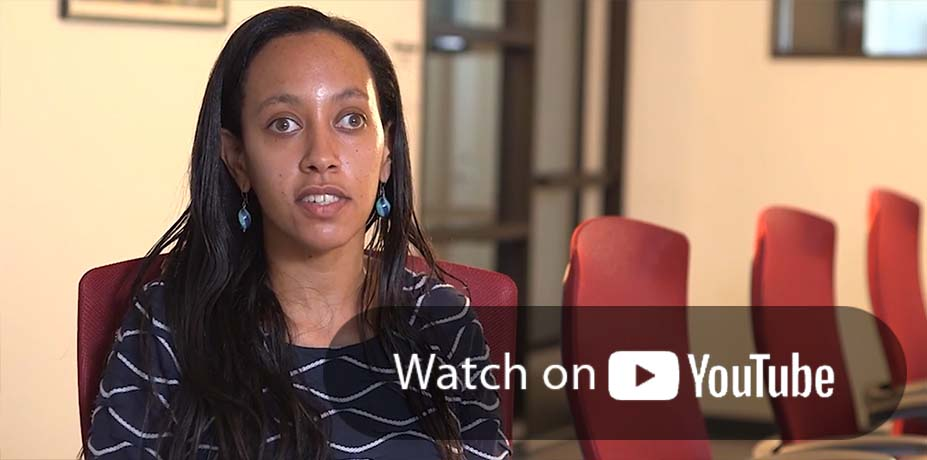
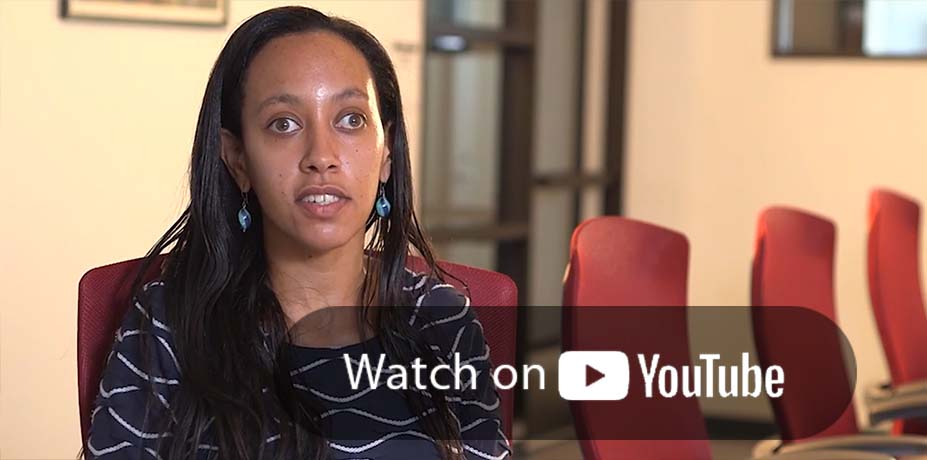
Updated thumbnails

Changed region(s): [[0.302, 0.6391, 0.9968, 0.9739]]

diff --git a/inclusive-design-in-the-ITL.html b/inclusive-design-in-the-ITL.html
@@ -325,11 +325,11 @@ h2 button.disclosure[aria-expanded="true"] .disclosure-icon {
       <figcaption>Introduction to Microsoft Inclusive Design</figcaption>
     </figure>
   </div>
-  <div class="card" id="mthr" style="padding: 2.5em; background-image: url('-idbak.jpg'); background-size: cover; background-position: center; color: rgb(34, 91, 98);">
-    <h3 style="margin-top: 1.5em;"><a href="https://inclusive.microsoft.design/" style="color: #000;">Microsoft Inclusive Design</a></h3>
+  <div class="card" id="mthr" style="padding: 2.5em; background-image: url('-idbak.jpg'); background-size: cover; background-position: center; background-color: #eee; color: rgb(34, 91, 98); line-height: 1.2em;">
+    <h3 style="margin-top: 1.5em; font-size: 150%;"><a href="https://inclusive.microsoft.design/" style="color: #000;">Microsoft Inclusive Design</a></h3>
     <p><b>Design is a methodology that enables and draws on the full range of human diversity.</b></p>
     <p style="margin-top: 0.5em;"><b><a href="https://inclusive.microsoft.design/articles/inclusive-101-guidebook" id="id101" style="color:#000;">Inclusive 101</a> &nbsp;|&nbsp; <a href="https://inclusive.microsoft.design/articles/inclusive-activity-cards" id="idac" style="color: #000;">Inclusive activity cards</a></b></p>
-    <p style="margin-top: 0.5em; line-height: 1em;"><small>&copy; Microsoft 2016 Licensed under Creative Commons Attribution NonCommercial-NoDerivatives (CC BY-NC-ND)</small></p>
+    <p style="margin-top: 0.5em;"><small>&copy; Microsoft 2016 Licensed under Creative Commons Attribution NonCommercial-NoDerivatives (CC BY-NC-ND)</small></p>
   </div>
 </div>
 
@@ -337,7 +337,7 @@ h2 button.disclosure[aria-expanded="true"] .disclosure-icon {
 <h2><button type="button" class="disclosure" aria-expanded="false" aria-controls="logistics-content" id="logistics-btn">Run a Sprint / Logistics<span aria-hidden="true" class="disclosure-icon"></span></button></h2>
 <div id="logistics-content" role="region" aria-labelledby="logistics-btn" hidden>
 
-<p><svg aria-hidden="true" width="16" height="16" viewBox="0 0 16 16" fill="currentColor" style="vertical-align: text-bottom; margin-right: 2px;"><path d="M3 1h7.5L14 4.5V14a1 1 0 0 1-1 1H3a1 1 0 0 1-1-1V2a1 1 0 0 1 1-1Zm7 1H3v12h10V5h-3V2ZM5 9h6v1H5V9Zm0 2h4v1H5v-1Zm0-4h3v1H5V7Z"/></svg><b> <a href="ITL-AI-Workshop-Handout.pdf" target="_blank" rel="noopener">Hosting a sprint one-pager</a> </b>&thinsp;<svg aria-hidden="true" width="12" height="12" viewBox="0 0 16 16" fill="currentColor" style="vertical-align: text-bottom;"><path d="M3.75 2h3.5a.75.75 0 0 1 0 1.5H4.5v8h8V8.75a.75.75 0 0 1 1.5 0v3.5A1.75 1.75 0 0 1 12.25 14H3.75A1.75 1.75 0 0 1 2 12.25V3.75C2 2.784 2.784 2 3.75 2Zm6.5 0h3a.75.75 0 0 1 .75.75v3a.75.75 0 0 1-1.5 0V4.06L8.28 8.28a.75.75 0 0 1-1.06-1.06L11.44 3H10.25a.75.75 0 0 1 0-1Z"/></svg></p>
+<p><svg aria-hidden="true" width="16" height="16" viewBox="0 0 16 16" fill="currentColor" style="vertical-align: text-bottom; margin-right: 2px;"><path d="M3 1h7.5L14 4.5V14a1 1 0 0 1-1 1H3a1 1 0 0 1-1-1V2a1 1 0 0 1 1-1Zm7 1H3v12h10V5h-3V2ZM5 9h6v1H5V9Zm0 2h4v1H5v-1Zm0-4h3v1H5V7Z"/></svg><b> <a href="ITL-AI-Workshop-Handout.pdf" target="_blank" rel="noopener">Hosting a sprint one-pager<span class="sr-only"> (PDF, opens in new window)</span></a> </b>&thinsp;<svg aria-hidden="true" width="12" height="12" viewBox="0 0 16 16" fill="currentColor" style="vertical-align: text-bottom;"><path d="M3.75 2h3.5a.75.75 0 0 1 0 1.5H4.5v8h8V8.75a.75.75 0 0 1 1.5 0v3.5A1.75 1.75 0 0 1 12.25 14H3.75A1.75 1.75 0 0 1 2 12.25V3.75C2 2.784 2.784 2 3.75 2Zm6.5 0h3a.75.75 0 0 1 .75.75v3a.75.75 0 0 1-1.5 0V4.06L8.28 8.28a.75.75 0 0 1-1.06-1.06L11.44 3H10.25a.75.75 0 0 1 0-1Z"/></svg></p>
 
 <ul>
   <li>Ideally this activity is done for 2-3 days, but activities can be done asynchronously if needed.</li>
@@ -416,10 +416,10 @@ h2 button.disclosure[aria-expanded="true"] .disclosure-icon {
     </figure>
   </div>
   <div class="card" id="smes" style="display: grid; grid-template-columns: 1fr 1fr; gap: 0; padding: 0; overflow: hidden;">
-    <a href="https://www.youtube.com/watch?v=eva5b_Ov7uo" target="_blank" style="line-height:0;"><img src="-SME1.jpg" alt="" style="width:100%; height:100%; object-fit:cover; display:block;"></a>
-    <a href="https://www.youtube.com/watch?v=-nGaDdfLXNg" target="_blank" style="line-height:0;"><img src="-SME2.jpg" alt="" style="width:100%; height:100%; object-fit:cover; display:block;"></a>
-    <a href="https://www.youtube.com/watch?v=Sl0iV7VyqN0" target="_blank" style="line-height:0;"><img src="-SME3.jpg" alt="" style="width:100%; height:100%; object-fit:cover; display:block;"></a>
-    <a href="https://www.youtube.com/watch?v=LxHRQod1d-4" target="_blank" style="line-height:0;"><img src="-SME4.jpg" alt="" style="width:100%; height:100%; object-fit:cover; display:block;"></a>
+    <a href="https://www.youtube.com/watch?v=eva5b_Ov7uo" target="_blank" rel="noopener" style="line-height:0;"><img src="-SME1.jpg" alt="Victor's video on Youtube" style="width:100%; height:100%; object-fit:cover; display:block;"></a>
+    <a href="https://www.youtube.com/watch?v=-nGaDdfLXNg" target="_blank" rel="noopener" style="line-height:0;"><img src="-SME2.jpg" alt="Antonie's video on Youtube" style="width:100%; height:100%; object-fit:cover; display:block;"></a>
+    <a href="https://www.youtube.com/watch?v=Sl0iV7VyqN0" target="_blank" rel="noopener" style="line-height:0;"><img src="-SME3.jpg" alt="Haben's video on Youtube" style="width:100%; height:100%; object-fit:cover; display:block;"></a>
+    <a href="https://www.youtube.com/watch?v=LxHRQod1d-4" target="_blank" rel="noopener" style="line-height:0;"><img src="-SME4.jpg" alt="Rosemarie's video on Youtube" style="width:100%; height:100%; object-fit:cover; display:block;"></a>
   </div>
 </div>
 
